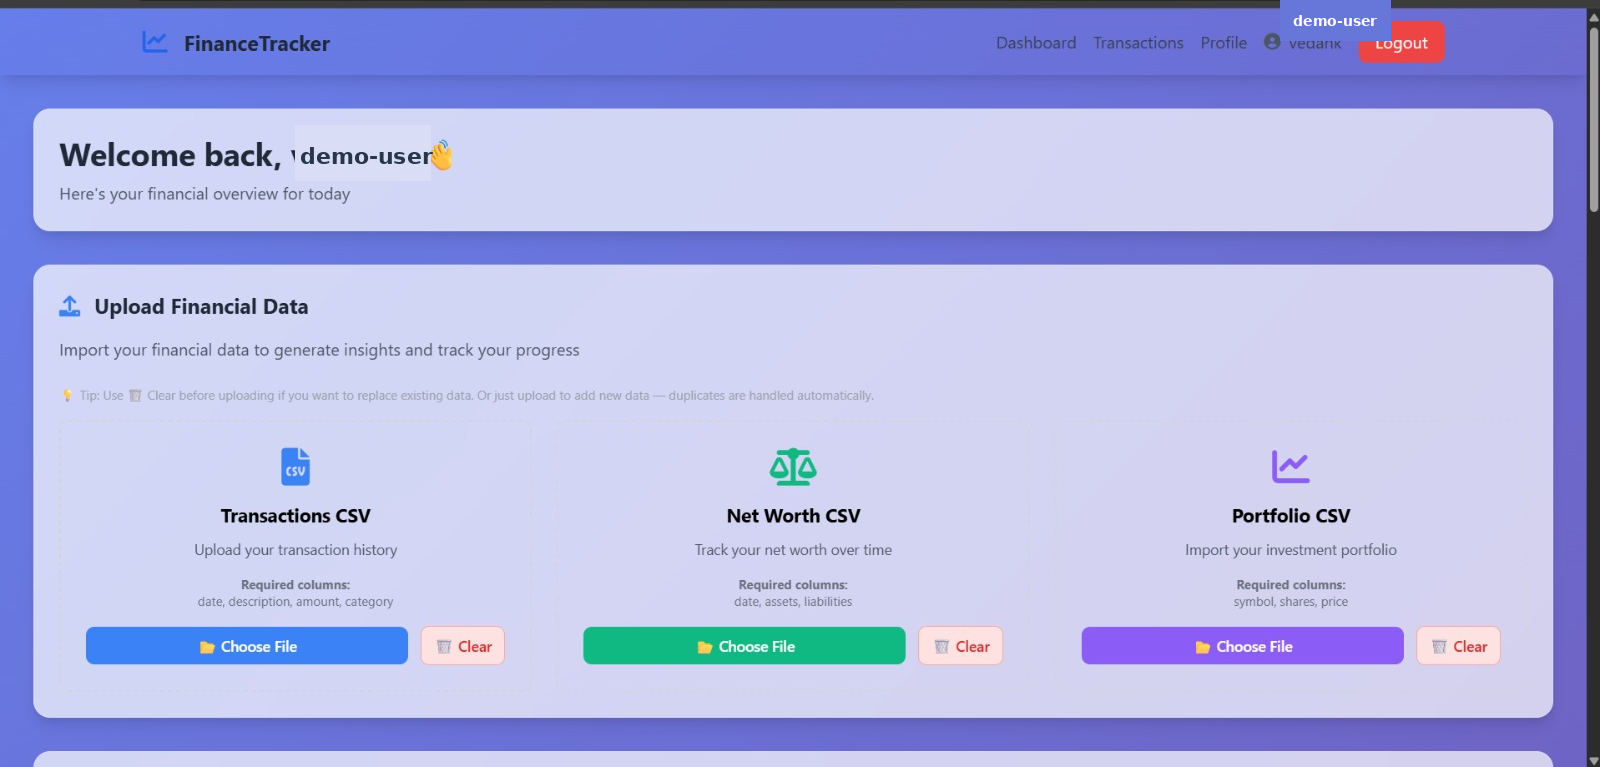
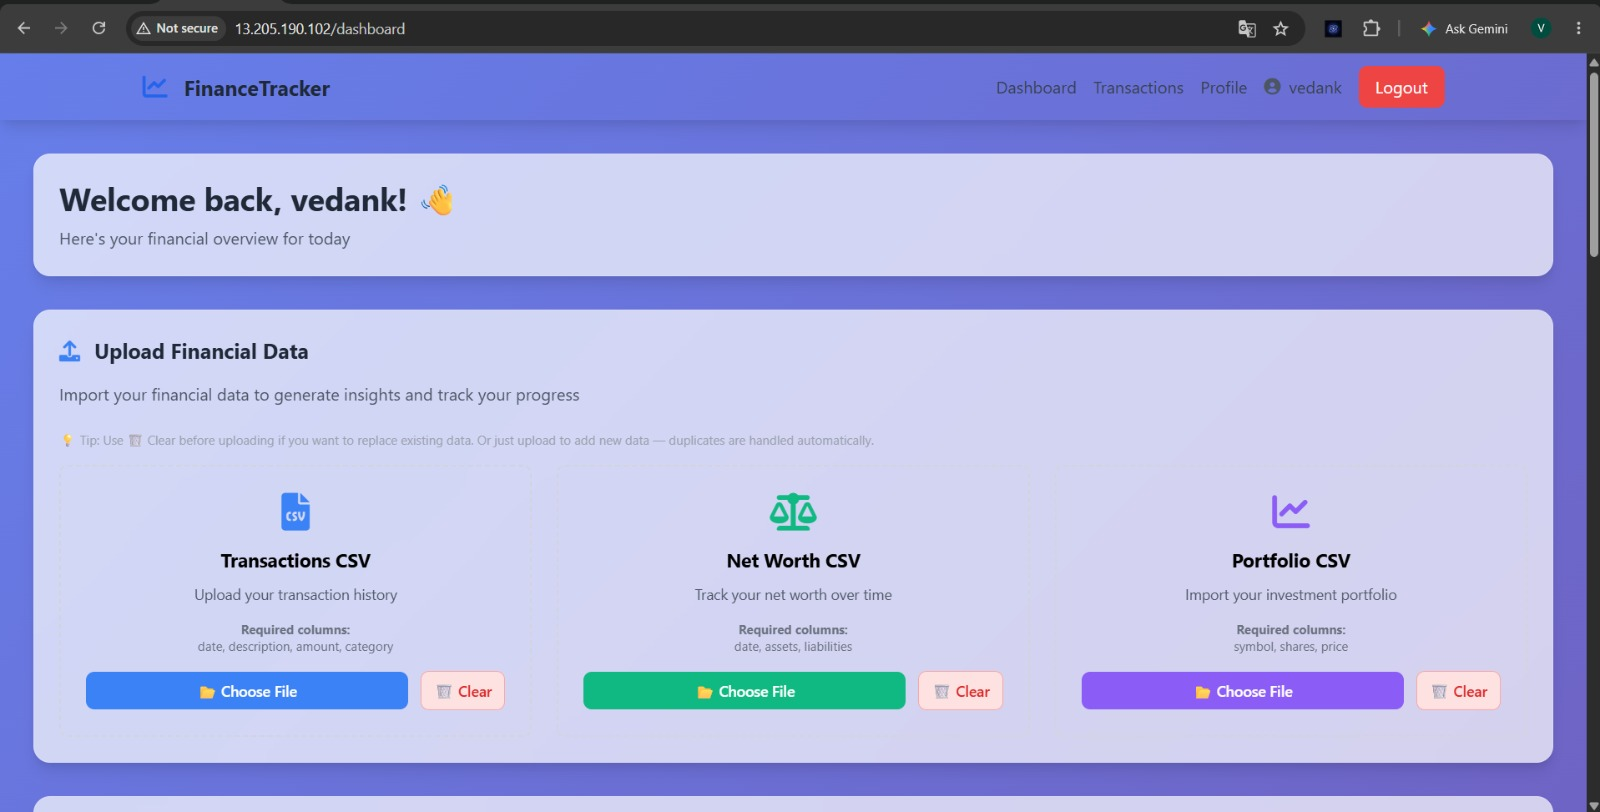
docs: restore original Finance Tracker screenshots

Changed region(s): [[0.0, 0.0, 1.0, 0.8996], [0.6562, 0.5997, 0.9375, 0.8996], [0.0312, 0.9296, 0.9688, 0.9596]]

diff --git a/docs/screenshots/README.md b/docs/screenshots/README.md
@@ -1,21 +1,15 @@
-# Finance Tracker — Public Screenshots
+# Finance Tracker — Application Screenshots
 
-Sanitized visual documentation for the Finance Tracker repository.
+This directory contains the nine original screenshots supplied for the Finance Tracker project.
 
-## Gallery
+1. `01-architecture-overview.png` — AWS architecture diagram.
+2. `02-dashboard-upload.png` — dashboard and CSV upload interface.
+3. `03-insights-budgets-portfolio.png` — AI insights, budgets and portfolio.
+4. `04-dashboard-cashflow.png` — dashboard metrics and cash-flow chart.
+5. `05-recent-transactions.png` — recent transactions.
+6. `06-transaction-history-export.png` — transaction history and S3 report export.
+7. `07-transaction-list.png` — transaction ledger.
+8. `08-profile-goals.png` — user profile and financial goals.
+9. `09-financial-health.png` — financial health and recommendations.
 
-1. `01-architecture-overview.png` — simplified AWS cloud architecture.
-2. `02-dashboard-upload.png` — CSV upload interface for transactions, net worth and portfolio.
-3. `03-insights-budgets-portfolio.png` — AI insights, monthly budgets and portfolio section.
-4. `04-dashboard-cashflow.png` — financial KPI cards and monthly cash-flow chart.
-5. `05-recent-transactions.png` — recent transaction table preview.
-6. `06-transaction-history-export.png` — transaction history, monthly S3 report export and filters.
-7. `07-transaction-list.png` — searchable and filterable transaction ledger.
-8. `08-profile-goals.png` — profile, financial summary and savings-goal interface.
-9. `09-financial-health.png` — financial health score and recommendation interface.
-
-## Privacy
-
-Public copies remove browser address bars where the live server IP appeared. Usernames, email addresses, transaction descriptions/counterparties, exact financial amounts and personal score details are hidden in the public images. Keep original screenshots only in private storage; do not commit unredacted originals.
-
-These screenshots illustrate the application's interface. They do not independently prove that cloud resources remain active.
+**Image handling:** The PNG files are copied byte-for-byte from the supplied originals. No text, values, identities, browser bars, or UI elements have been altered, obscured, or replaced.
